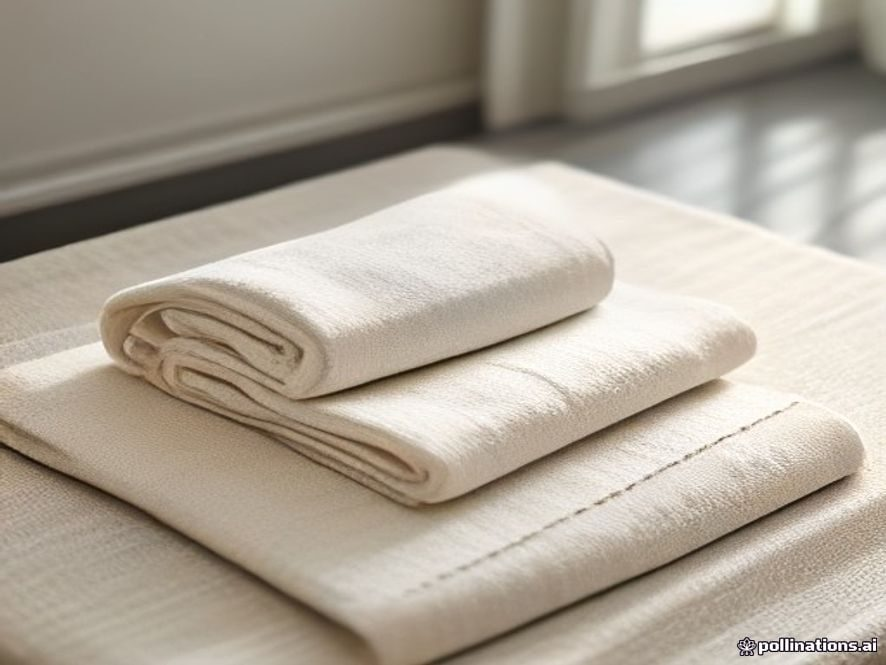
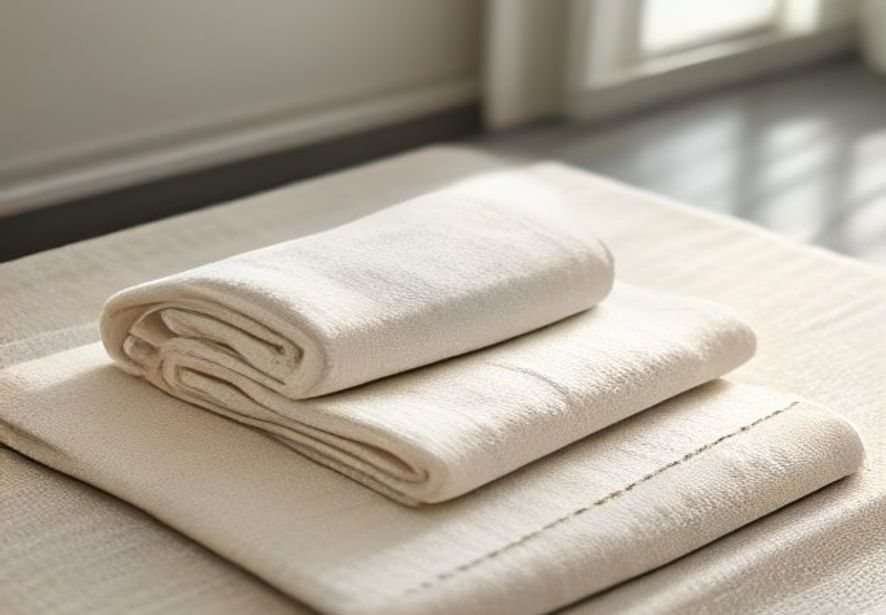
docs: publish day 04 live demo site, ecpay test checkout, ga4 ecommerce tracking and diagrams
- live-demo: flask app on cloud run with server-side pricing, ecpay aio stage checkout, checkmacvalue verification and pytest suite

- analytics: ga4 view_item_list, view_item, begin_checkout and purchase events

- scripts: deploy_live_demo.sh with run.builder grant and artifact registry cleanup policy

Claude-Session: https://claude.ai/code/session_019wghuekh1nfJ4SvmSV5dbz

diff --git a/live-demo/templates/product.html b/live-demo/templates/product.html
@@ -9,12 +9,12 @@
 <section class="product-detail"
          data-item='{{ {"item_id": product.id, "item_name": product.name, "item_category": product.category, "price": product.price, "item_variant": product.size_options[0]} | tojson }}'>
   <div class="gallery">
-    <img class="gallery-main" id="gallery-main" src="{{ url_for('static', filename=product.gallery[0]) }}" alt="{{ product.name }}" width="800" height="600">
+    <img class="gallery-main" id="gallery-main" src="{{ url_for('static', filename=product.gallery[0]) }}" alt="{{ product.name }}" width="886" height="615">
     {% if product.gallery|length > 1 %}
     <div class="gallery-thumbs">
       {% for img in product.gallery %}
       <button type="button" class="thumb{% if loop.first %} is-active{% endif %}" data-src="{{ url_for('static', filename=img) }}">
-        <img src="{{ url_for('static', filename=img) }}" alt="{{ product.name }} 圖 {{ loop.index }}" width="160" height="120" loading="lazy">
+        <img src="{{ url_for('static', filename=img) }}" alt="{{ product.name }} 圖 {{ loop.index }}" width="160" height="111" loading="lazy">
       </button>
       {% endfor %}
     </div>

diff --git a/live-demo/templates/_card.html b/live-demo/templates/_card.html
@@ -1,7 +1,7 @@
 {% macro product_card(p, list_id, list_name, index) -%}
 <article class="product-card" data-item='{{ {"item_id": p.id, "item_name": p.name, "item_category": p.category, "price": p.price, "index": index, "item_list_id": list_id, "item_list_name": list_name} | tojson }}'>
   <a class="card-media" href="{{ url_for('product_detail', product_id=p.id) }}">
-    <img src="{{ url_for('static', filename=p.image) }}" alt="{{ p.name }}" width="640" height="480" loading="lazy">
+    <img src="{{ url_for('static', filename=p.image) }}" alt="{{ p.name }}" width="640" height="444" loading="lazy">
     {% if p.badge %}<span class="badge">{{ p.badge }}</span>{% endif %}
   </a>
   <div class="card-body">

diff --git a/live-demo/templates/thanks.html b/live-demo/templates/thanks.html
@@ -7,7 +7,7 @@
   <h1>謝謝你的訂購{% if simulated %}（模擬結帳）{% endif %}</h1>
   <p>訂單編號 <code>{{ trade_no }}</code></p>
   <p class="order-line">
-    <img src="{{ url_for('static', filename=product.image) }}" alt="" width="96" height="72">
+    <img src="{{ url_for('static', filename=product.image) }}" alt="" width="96" height="67">
     <span>{{ product.name }}{% if size %}（{{ size }}）{% endif %} × {{ qty }}<br><strong>NT$ {{ "{:,}".format(amount) }}</strong></span>
   </p>
   <p class="hint">{% if simulated %}本筆為模擬結帳，沒有經過任何金流。{% else %}本筆為綠界測試環境交易，不會實際扣款，商品也不會出貨。{% endif %}</p>

diff --git a/live-demo/templates/about.html b/live-demo/templates/about.html
@@ -8,7 +8,7 @@
 </section>
 
 <section class="about-band">
-  <img src="{{ url_for('static', filename='img/loom.jpg') }}" alt="低速織機示意" width="886" height="665">
+  <img src="{{ url_for('static', filename='img/loom.jpg') }}" alt="低速織機示意" width="886" height="615">
   <div>
     <h2>一台織機一天織得出的量有限</h2>
     <p>我們和彰化社頭的織襪廠、雲林虎尾的毛巾廠合作，把織機轉速降下來。速度慢，紗線受到的張力小，織出來的結構才留得住空氣——這就是毛巾蓬鬆、襪子不勒腳的原因。</p>

diff --git a/live-demo/templates/checkout_redirect.html b/live-demo/templates/checkout_redirect.html
@@ -4,7 +4,7 @@
 <section class="panel">
   <h1>正在前往綠界測試環境…</h1>
   <p class="order-line">
-    <img src="{{ url_for('static', filename=product.image) }}" alt="" width="96" height="72">
+    <img src="{{ url_for('static', filename=product.image) }}" alt="" width="96" height="67">
     <span>{{ product.name }}{% if size %}（{{ size }}）{% endif %} × {{ qty }}<br><strong>NT$ {{ "{:,}".format(amount) }}</strong></span>
   </p>
   <p class="hint">測試卡號 4311-9522-2222-2222，有效期限填未來月份，CVV 任意三碼，3D 驗證碼 1234。</p>

diff --git a/live-demo/templates/index.html b/live-demo/templates/index.html
@@ -29,7 +29,7 @@
   <div class="campaign-row">
     {% for c in campaigns %}
     <a class="campaign-card" href="{{ url_for('landing', slug=c.slug) }}">
-      <img src="{{ url_for('static', filename=c.hero_image) }}" alt="{{ c.name }}" width="640" height="480" loading="lazy">
+      <img src="{{ url_for('static', filename=c.hero_image) }}" alt="{{ c.name }}" width="640" height="444" loading="lazy">
       <div>
         <h3>{{ c.name }}</h3>
         <p>{{ c.subhead }}</p>

diff --git a/live-demo/templates/base.html b/live-demo/templates/base.html
@@ -25,7 +25,7 @@
 </head>
 <body>
   <div class="demo-banner" role="note">
-    iThome 鐵人賽技術展示站：使用綠界「測試環境」，不會實際扣款，商品不會出貨。
+    iThome 鐵人賽技術展示站：使用綠界「測試環境」，不會實際扣款，商品不會出貨；站上商品與情境圖皆由 Pollinations.ai 生成。
   </div>
   <header class="site-header">
     <div class="header-inner">

diff --git a/live-demo/templates/landing.html b/live-demo/templates/landing.html
@@ -13,7 +13,7 @@
     </ul>
     <p><a class="button" href="#lp-products">看專案商品</a></p>
   </div>
-  <img src="{{ url_for('static', filename=campaign.hero_image) }}" alt="{{ campaign.name }} 主視覺" width="720" height="540">
+  <img src="{{ url_for('static', filename=campaign.hero_image) }}" alt="{{ campaign.name }} 主視覺" width="886" height="615">
 </section>
 
 <section id="lp-products" class="section">

diff --git a/live-demo/tests/test_app.py b/live-demo/tests/test_app.py
@@ -70,6 +70,7 @@ def test_index_renders_products_and_gtag(client):
     assert "日常中筒襪" in html and "純棉大浴巾" in html
     assert "googletagmanager.com/gtag/js?id=G-TEST1234" in html
     assert "測試環境" in html
+    assert "Pollinations.ai 生成" in html  # 圖片出處標示在最上方的展示站說明列
     assert 'class="hero-banner"' in html  # 首頁是全幅 banner，品牌敘述留在關於頁
     assert "原質溯源" not in html
     # 主標固定兩行、不帶標點
